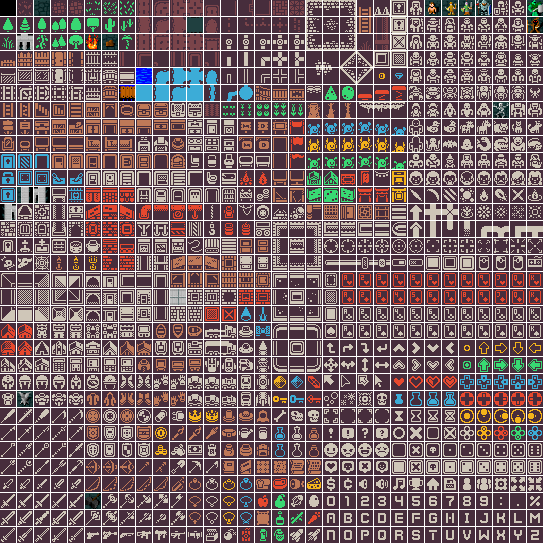
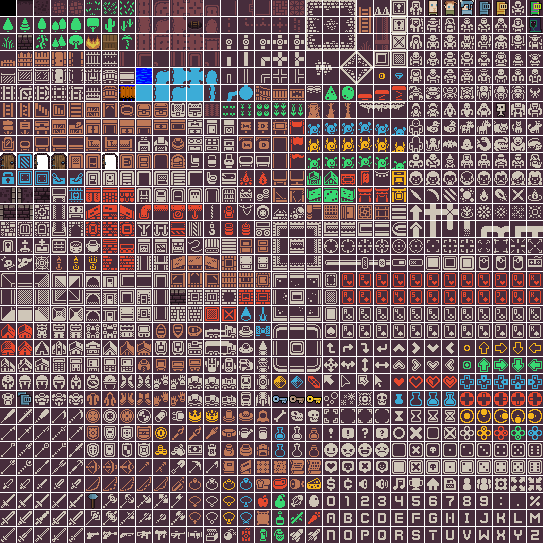
Add new tileset

diff --git a/src/main/java/com/codecool/quest/logic/Cell.java b/src/main/java/com/codecool/quest/logic/Cell.java
@@ -55,7 +55,7 @@ public class Cell implements Drawable {
     public Cell getNeighbor(int dx, int dy) {
         try {
             Cell cellToMove = gameMap.getCell(x + dx, y + dy);
-            if (cellToMove.type == CellType.WALL || cellToMove.type == CellType.EMPTY || cellToMove.type == CellType.WINE || cellToMove.type == CellType.RUINED_WALL_PIECE || cellToMove.type == CellType.ROCK || cellToMove.type == CellType.TREE) {
+            if (cellToMove.type == CellType.WALL || cellToMove.type == CellType.EMPTY || cellToMove.type == CellType.WINE || cellToMove.type == CellType.RUINED_WALL_PIECE_LEFT || cellToMove.type == CellType.RUINED_WALL_PIECE_RiGHT|| cellToMove.type == CellType.ROCK || cellToMove.type == CellType.TREE) {
                 return gameMap.getCell(x, y);
             } else if (cellToMove.type == CellType.FLOOR && cellToMove.getActor() != null) {
                 combat(cellToMove, gameMap.getCell(x, y));

diff --git a/src/main/java/com/codecool/quest/logic/MapLoader.java b/src/main/java/com/codecool/quest/logic/MapLoader.java
@@ -114,7 +114,16 @@ public class MapLoader {
                             cell.setType(CellType.WINE);
                             break;
                         case '/':
-                            cell.setType(CellType.RUINED_WALL_PIECE);
+                            cell.setType(CellType.RUINED_WALL_PIECE_LEFT);
+                            break;
+                        case 'q':
+                            cell.setType(CellType.RUINED_WALL_PIECE_RiGHT);
+                            break;
+                        case '<':
+                            cell.setType(CellType.LEFT_CORNER);
+                            break;
+                        case '>':
+                            cell.setType(CellType.RIGHT_CORNER);
                             break;
                         case 'f':
                             cell.setType(CellType.FALSE_WALL);

diff --git a/src/main/java/com/codecool/quest/Tiles.java b/src/main/java/com/codecool/quest/Tiles.java
@@ -41,7 +41,10 @@ public class Tiles {
         tileMap.put("tree", new Tile(6,2));
         tileMap.put("rock", new Tile(5,2));
         tileMap.put("zalgotrax", new Tile(31,1));
-        tileMap.put("ruined_wall_piece", new Tile(1,11));
+        tileMap.put("ruined_wall_piece_left", new Tile(1,11));
+        tileMap.put("ruined_wall_piece_right", new Tile(0,11));
+        tileMap.put("right_corner", new Tile(1,12));
+        tileMap.put("left_corner", new Tile(0,12));
         tileMap.put("false_wall", new Tile(1,2));
         tileMap.put("wine", new Tile(1,2));
         tileMap.put("Gloryhammer", new Tile(5,29));

diff --git a/src/main/java/com/codecool/quest/logic/CellType.java b/src/main/java/com/codecool/quest/logic/CellType.java
@@ -9,11 +9,13 @@ public enum CellType {
     BRIDGE("bridge"),
     TREE("tree"),
     ROCK("rock"),
-    ZALGOTRAX("zalgotrax"),
-    RUINED_WALL_PIECE("ruined_wall_piece"),
+    RUINED_WALL_PIECE_LEFT("ruined_wall_piece_left"),
+    RUINED_WALL_PIECE_RiGHT("ruined_wall_piece_right"),
     WINE("wine"),
     FALSE_WALL("false_wall"),
-    OPENED_DOOR("opened_door");
+    OPENED_DOOR("opened_door"),
+    LEFT_CORNER("left_corner"),
+    RIGHT_CORNER("right_corner");
 
     private final String tileName;
 
